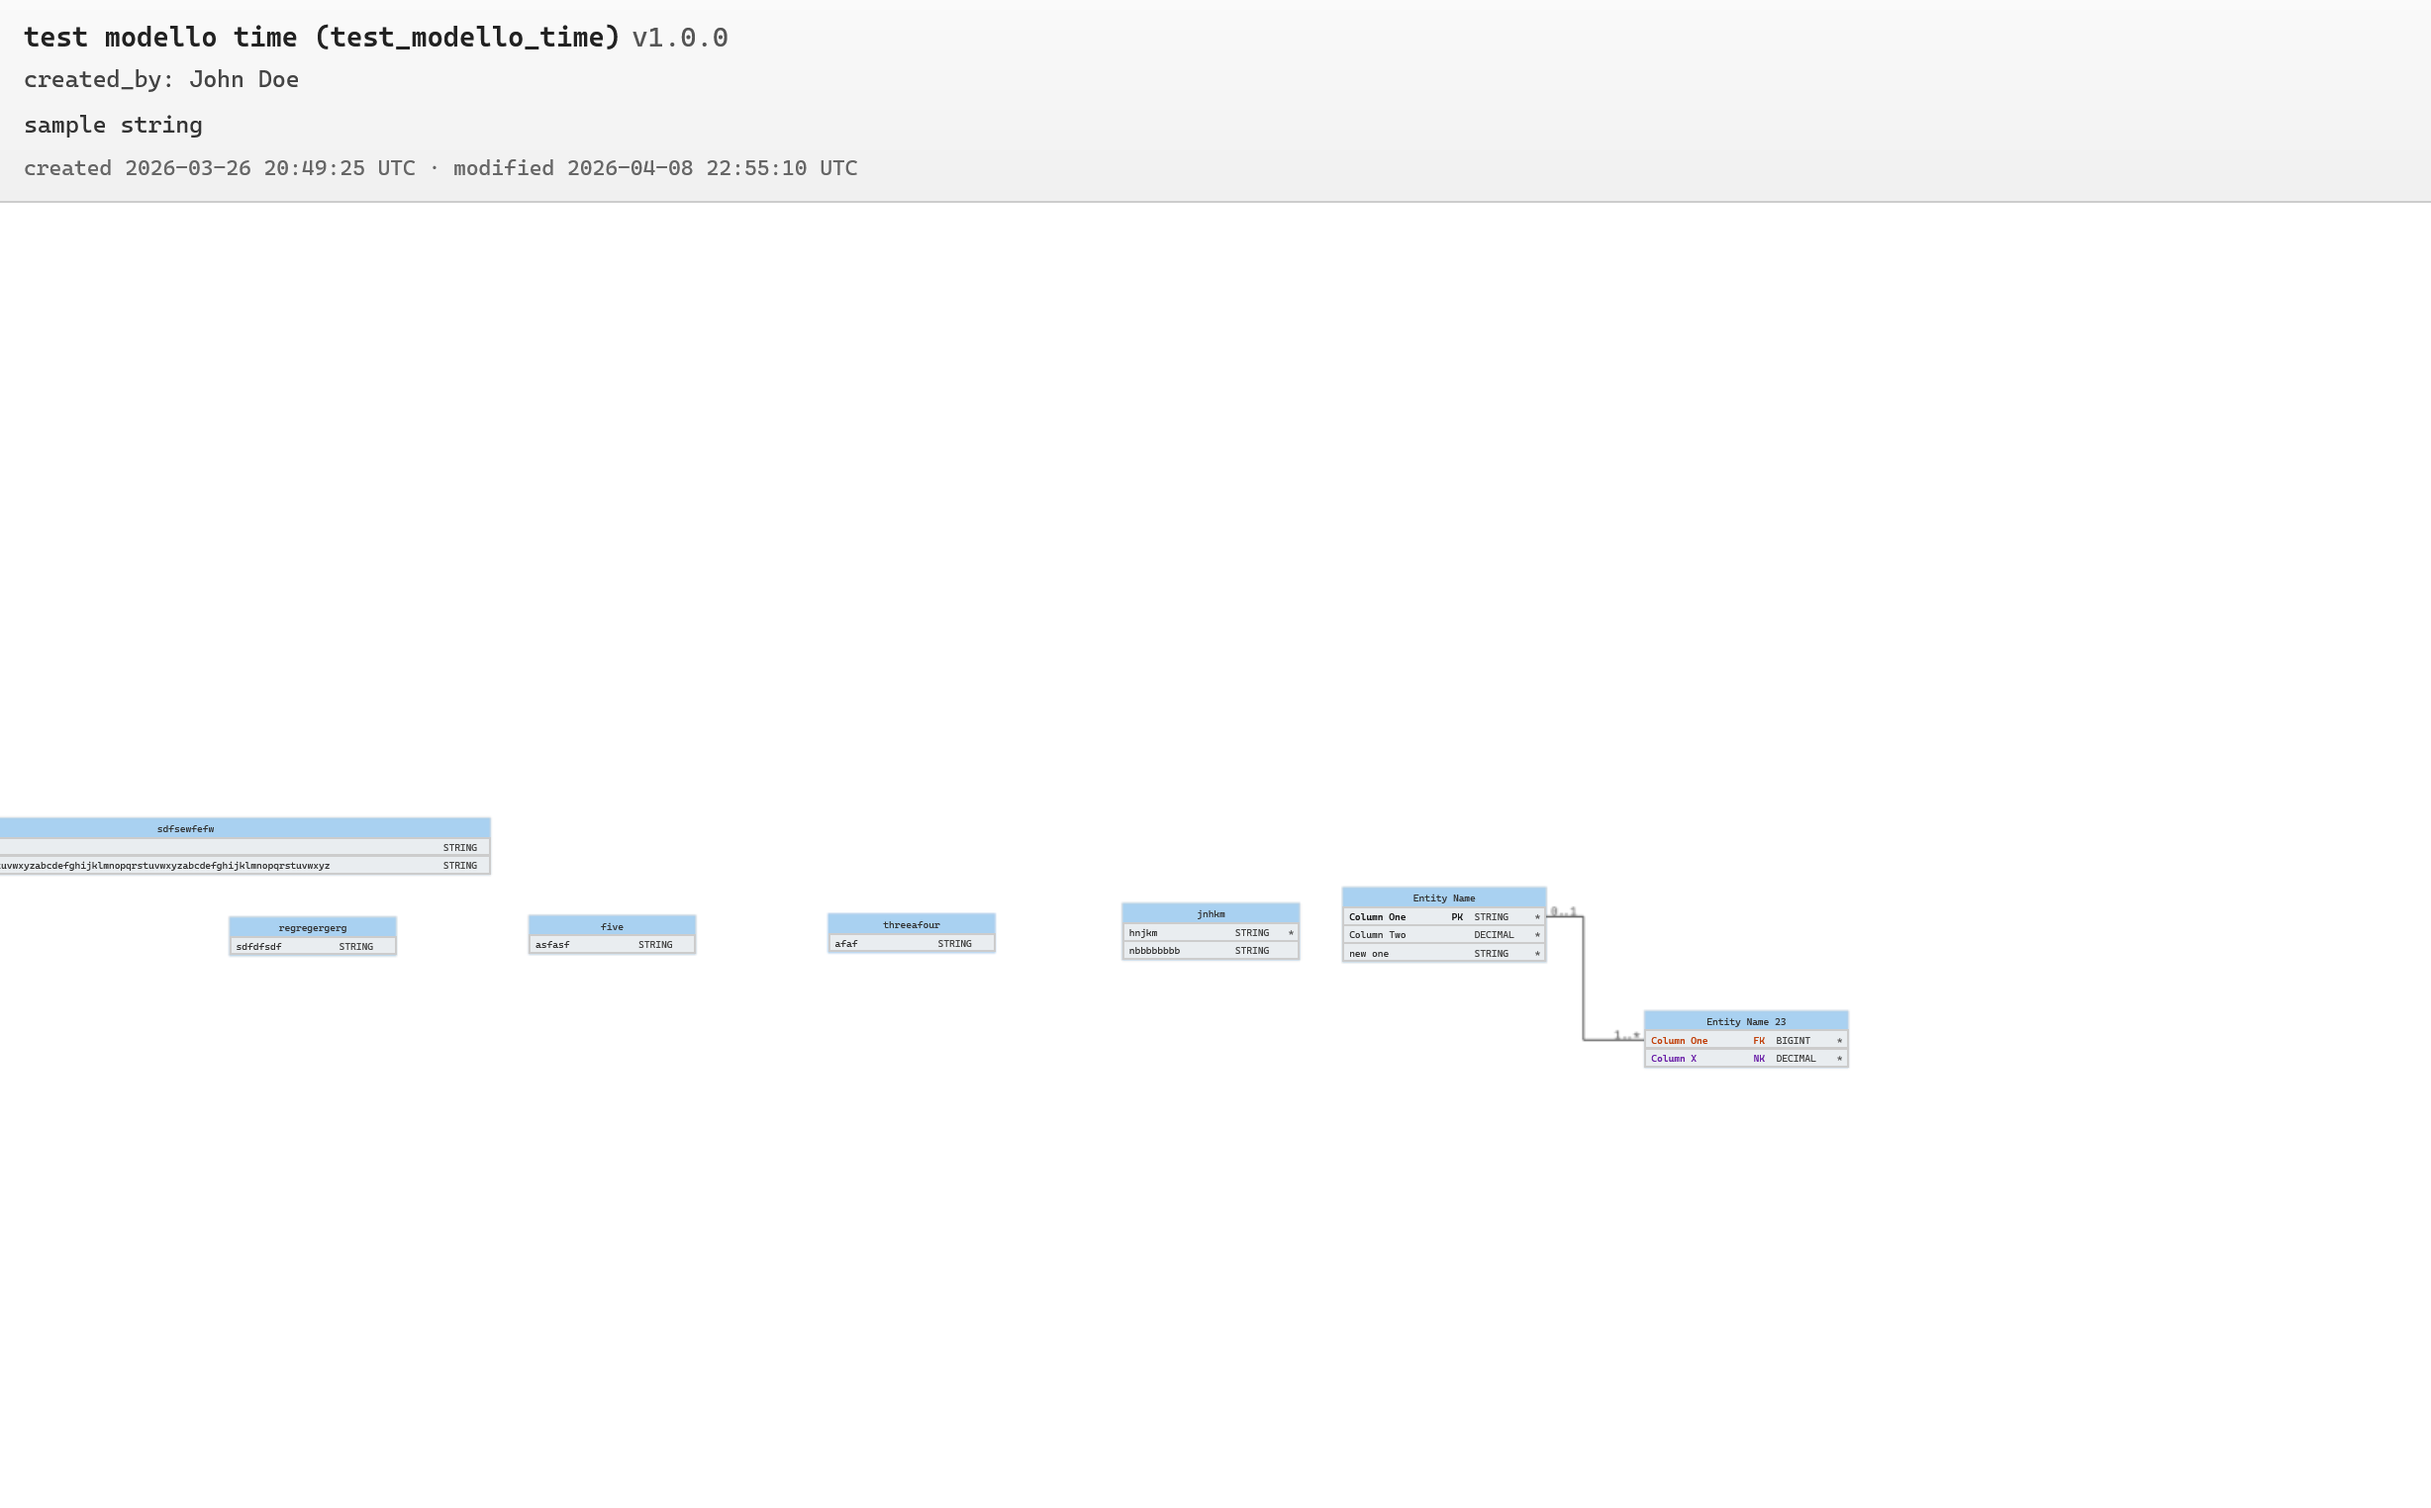
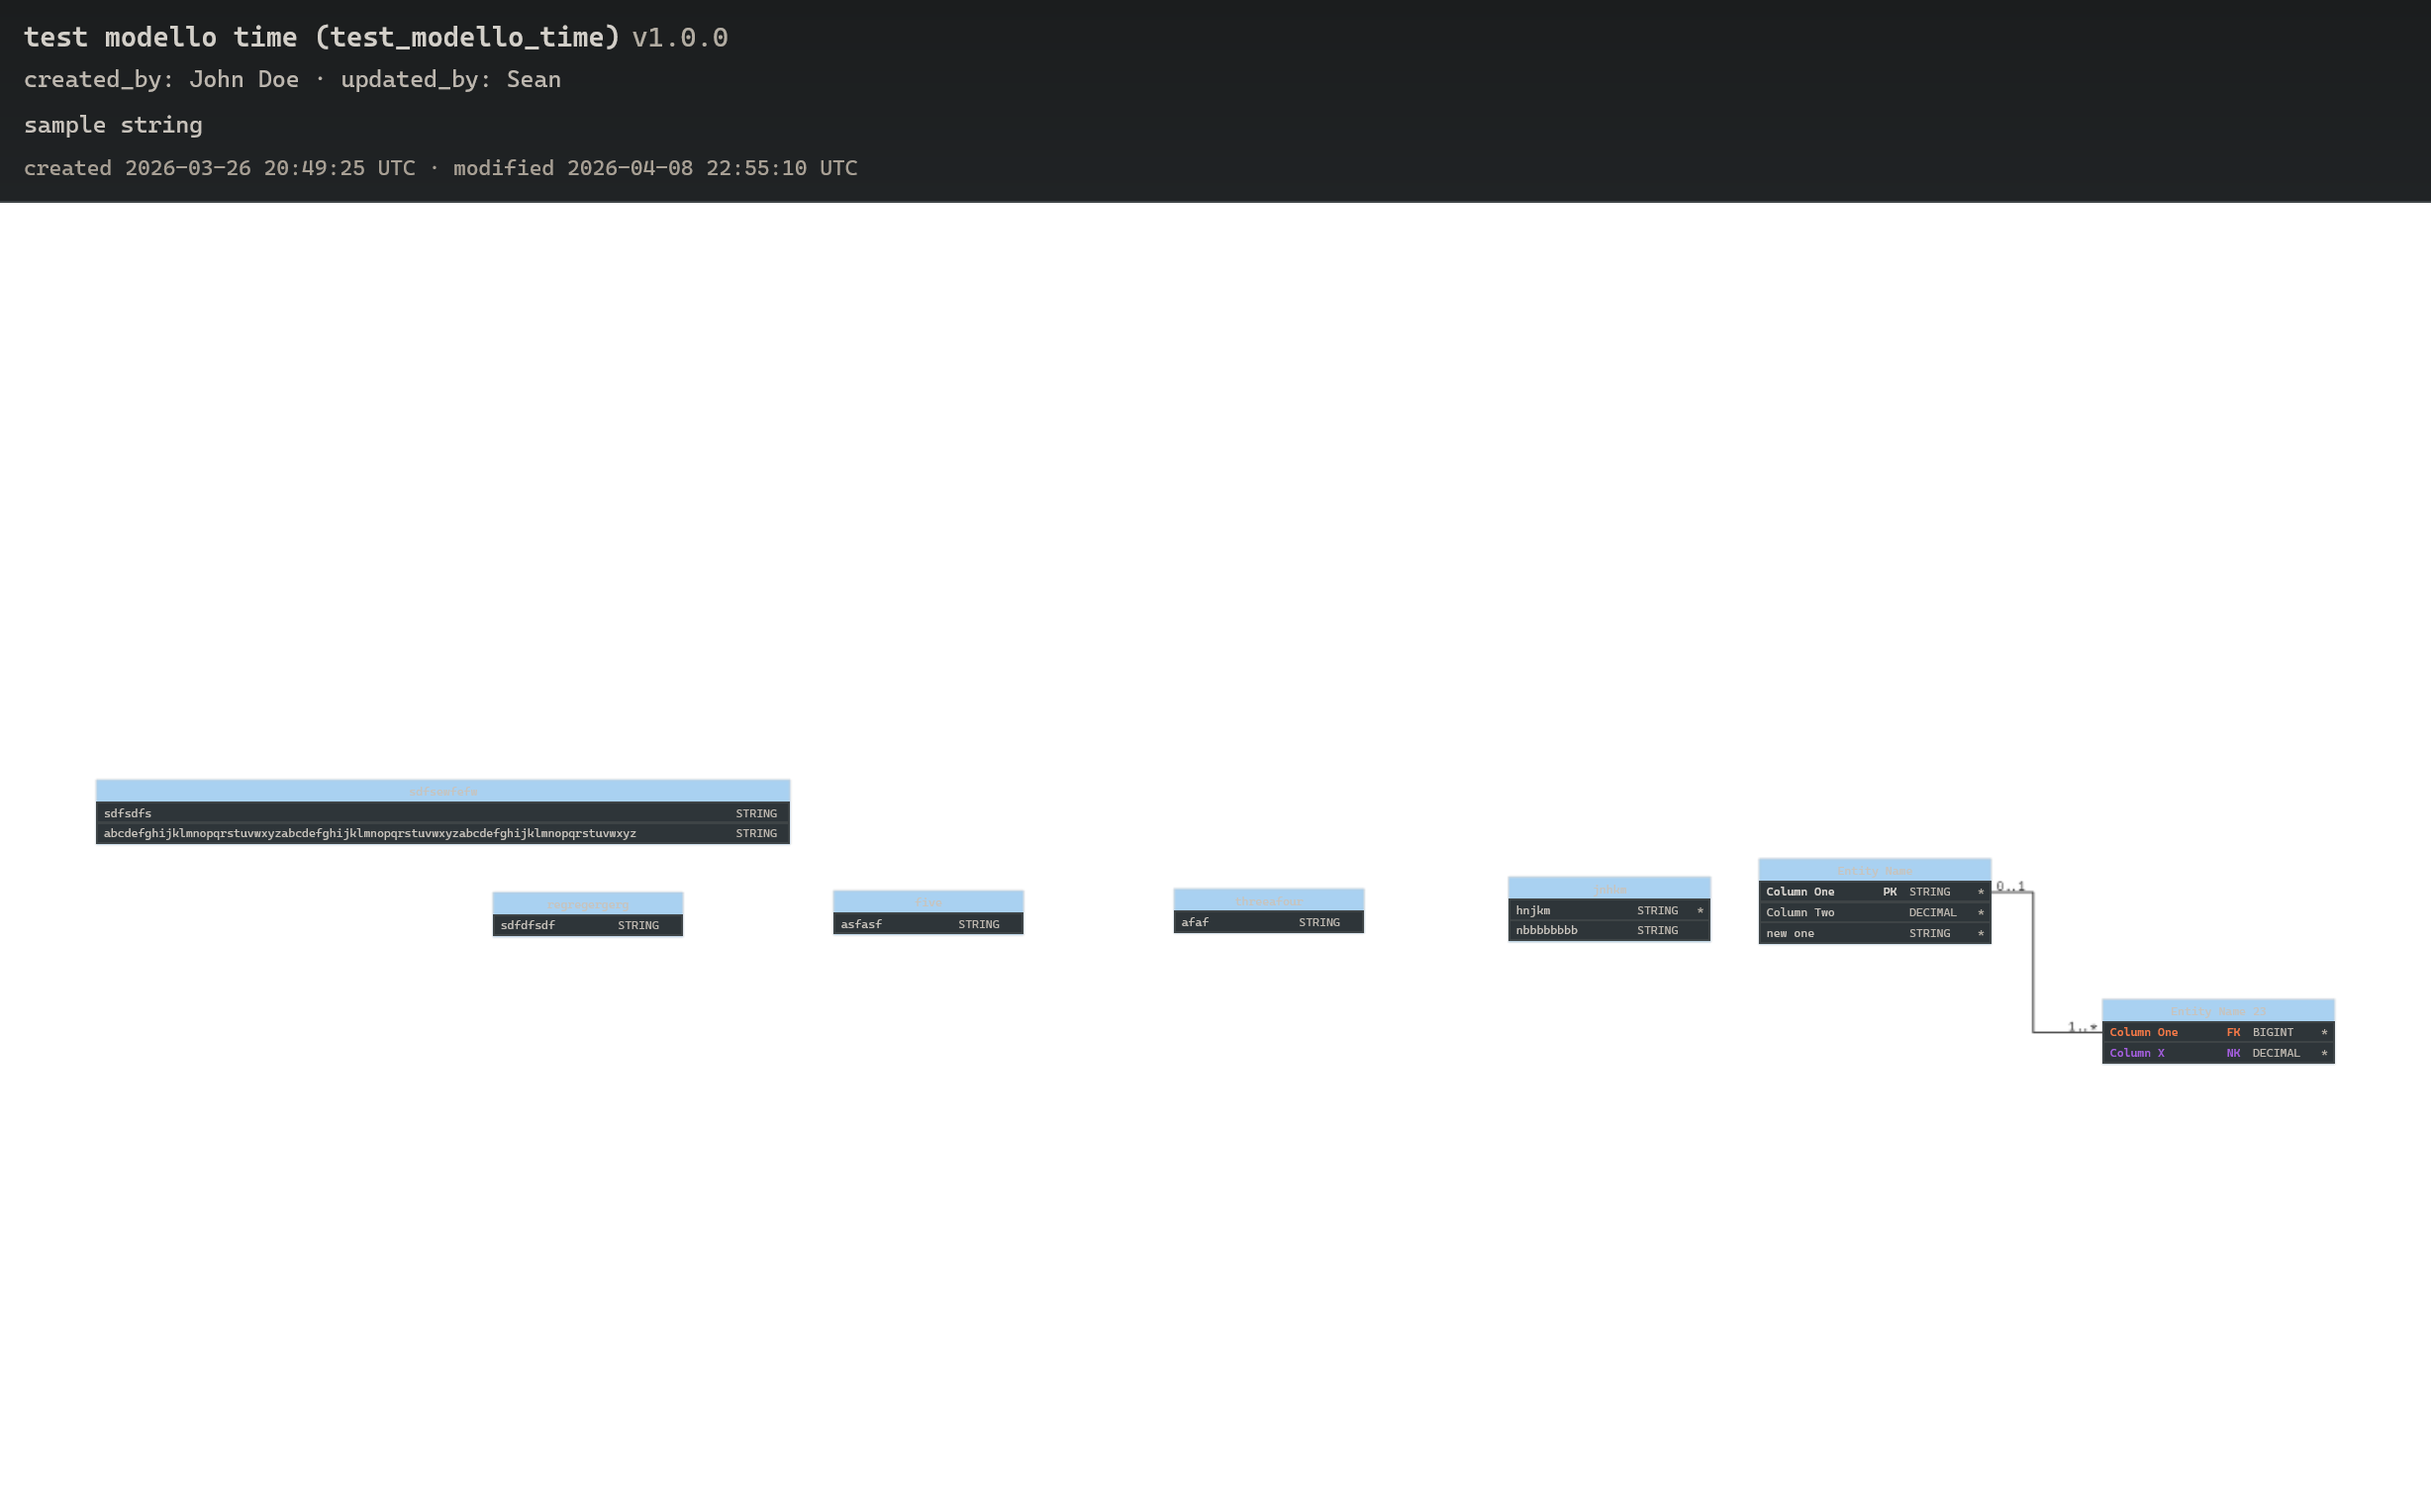
add 'updated by'

diff --git a/static/main.js b/static/main.js
@@ -1718,7 +1718,12 @@ function refreshDiagramMetaStrip() {
     // if (tn) parts.push(`technical_name: ${tn}`);
     // if (cb) parts.push(`created_by: ${cb}`);
     // line1.textContent = parts.length ? parts.join(' · ') : canonicalTechnicalName;
-    line1.textContent = `created_by: ${(meta.created_by ?? '').trim()}`;
+    {
+        let line = `created_by: ${(meta.created_by ?? '').trim()}`;
+        const ub = (meta.updated_by ?? '').trim();
+        if (ub) line += ` · updated_by: ${ub}`;
+        line1.textContent = line;
+    }
     strip.appendChild(line1);
     const desc = (meta.description ?? '').trim();
     if (desc) {
@@ -1822,6 +1827,18 @@ function renderModelMetadataDetails() {
         refreshDiagramMetaStrip();
     });
     appendDetailsFormField(form, 'created_by', inpCreatedBy);
+
+    const inpUpdatedBy = document.createElement('input');
+    inpUpdatedBy.type = 'text';
+    inpUpdatedBy.value = meta.updated_by ?? '';
+    inpUpdatedBy.addEventListener('input', () => {
+        const v = inpUpdatedBy.value;
+        if (!v.trim()) delete meta.updated_by;
+        else meta.updated_by = v;
+        schedulePersistWorkingModel();
+        refreshDiagramMetaStrip();
+    });
+    appendDetailsFormField(form, 'updated_by', inpUpdatedBy);
 
     const taDesc = document.createElement('textarea');
     taDesc.rows = 4;
